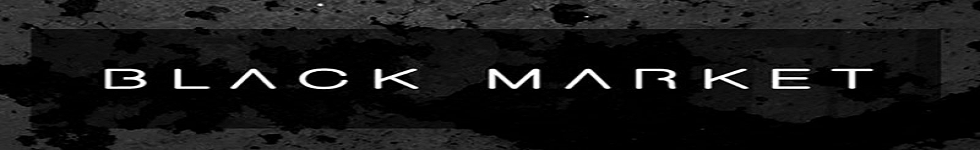
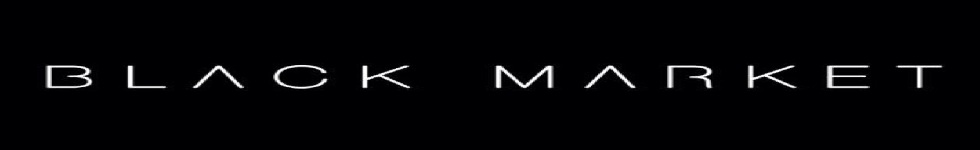
Добавил и исправил
Добавил меню (проверка)
Исправил шапку, подвал.

diff --git a/index.php b/index.php
@@ -19,6 +19,11 @@
 		</a>
 	</header><!-- .header-->
 
+	<div class="vmenu">
+	
+	</div>
+
+
 	<div class="middle">
 
 		<div class="container">
